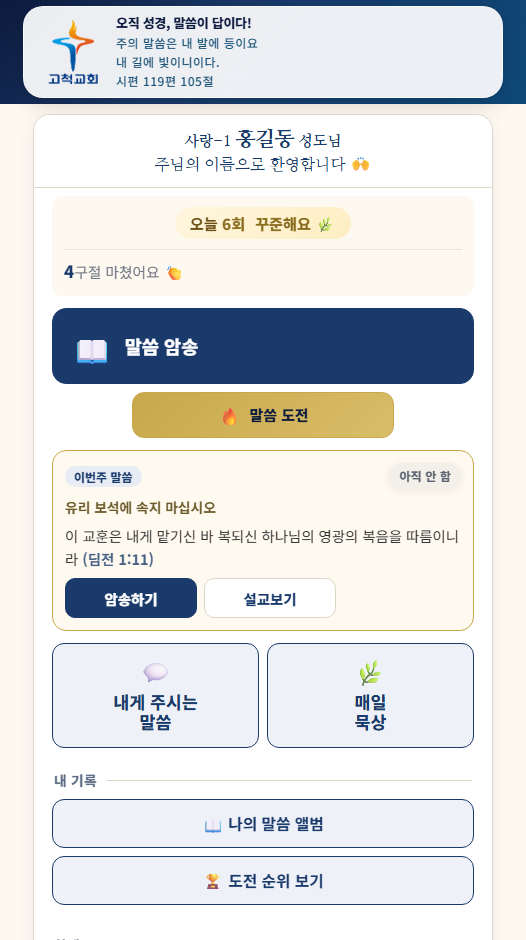
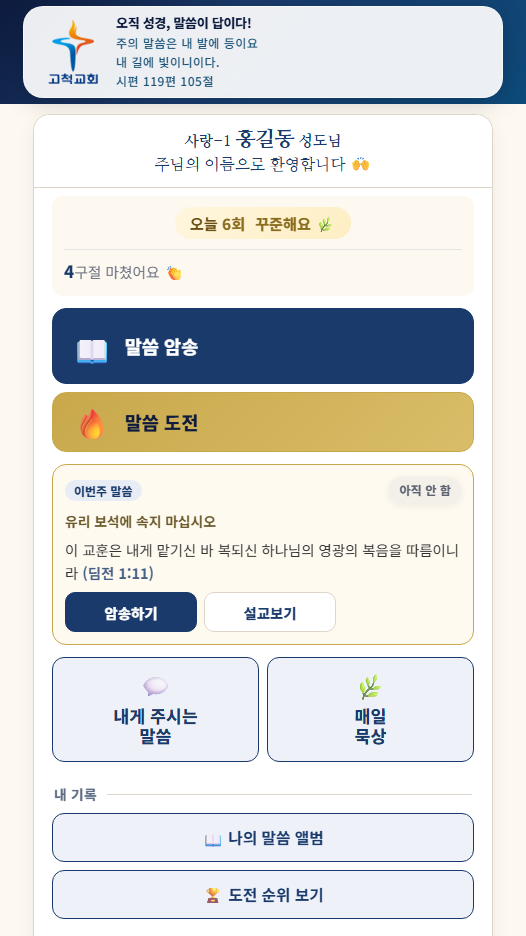
fix(첫 화면): 「말씀 도전」을 「말씀 암송」과 같은 짝으로 — 폭·정렬·그림·글 크기 맞춤, 높이·색으로만 가름 — v3.587
친구 — 「단추가 같아 보이지 않는다」. 62% · 가운데는 9/02 「오늘 할 일 하나」 시절의 것이고
10/11 부터 두 단추가 늘 같은 자리라 까닭이 없어졌다. 옛 62% 규칙과 그 주석은 걷었다.
그림 칸은 너비를 박지 않고 글자 크기만 같게(기기마다 그림 글자 폭이 달라 글 시작이 어긋난다).
guide/shots/home.png 다시 찍음 · docs/notes/home-screen.md · design-refresh.md 에 적음.

diff --git a/style.css b/style.css
@@ -1574,7 +1574,8 @@ body.native-app-hide-ref .word-input { scroll-margin-top: 90px; }
 
 /* ── 오늘 할 일 (2026-09-02) ────────────────────────────────────
    상태를 보고 하나만 크게. 아래 sub-actions 는 그 나머지라 한 단계 작다.
-   ⚠ 이 둘의 크기 차이가 곧 「먼저 이걸 누르세요」다 — 비슷하게 만들면 뜻이 없어진다. */
+   ⚠ 이 둘의 크기 차이가 곧 「먼저 이걸 누르세요」다 — 비슷하게 만들면 뜻이 없어진다.
+   (2026-10-12 — 폭 · 정렬 · 그림 · 글 크기는 맞추고 높이와 색으로만 가른다. 아래 「.sub-actions.one」 덩이) */
 .todo-go {
   display: flex; align-items: center; gap: 12px;
   width: 100%; margin: 0 0 8px; padding: 16px 18px;
@@ -4187,10 +4188,18 @@ body.ab-playing .verse-grid { padding-bottom: 200px; }
 }
 .summary-actions.sub-actions .act-ic { font-size: 1.1rem; margin-bottom: 0; }
 .summary-actions.sub-actions .act-tx { font-size: .93rem; }
-/* ⚠ 하나뿐이면 flex:1 이 전체 폭을 먹어 「오늘 할 일」만큼 커 보인다 —
-   크기 차이가 곧 「먼저 이걸 누르세요」인데 그 뜻이 사라진다. 폭을 줄여 둔다. */
-.summary-actions.sub-actions.one { justify-content: center; }
-.summary-actions.sub-actions.one .summary-go { flex: 0 1 62%; min-height: 46px; }
+/* 하나뿐일 때(「말씀 도전」) — 위 「말씀 암송」(.todo-go)과 같은 짝으로(2026-10-12 친구 「단추가 같아 보이지 않는다」).
+   폭 · 왼쪽 정렬 · 그림 크기 · 글 시작 자리 · 글 크기 · 모서리를 위 단추와 같게 두고, 높이(76 vs 60)와 색(남색 vs 금색)으로만 가른다.
+   ⚠ 9/02 에는 폭을 62% 로 줄여 가운데 두었다 — 큰 단추가 상황 따라 바뀌던 「오늘 할 일 하나」 시절에 「먼저 이걸」을 크기로 말하려던 것.
+      10/11 부터 두 단추가 늘 같은 자리 · 같은 이름이라 그 까닭이 없어졌고, 폭과 정렬이 다르니 다른 종류의 단추로 보였다.
+   ⚠ 그림 칸에 너비를 박지 말고 글자 크기만 위 단추와 같게(1.9rem) — 그림 글자 폭은 기기 글꼴마다 다르다(윈도 크롬 📖 ≈ 41px).
+      같은 글꼴의 그림 글자는 폭이 같아서, 크기만 맞추면 어느 기기에서나 「말씀」 두 글자가 위아래로 맞는다. */
+.summary-actions.sub-actions.one .summary-go {
+  flex: 1 1 100%; min-height: 60px; padding: 10px 18px; gap: 12px;
+  justify-content: flex-start; text-align: left; border-radius: 14px;
+}
+.summary-actions.sub-actions.one .act-ic { font-size: 1.9rem; flex: none; }
+.summary-actions.sub-actions.one .act-tx { font-size: 1.16rem; line-height: 1.2; }
 
 /* ── 사용자 정보 한 상자 (2026-09-02) ─────────────────────────────
    「오늘 몇 회」와 「전체 진행」은 둘 다 내 상태다 — 상자 둘로 나눠 두면

diff --git a/index.html b/index.html
@@ -65,7 +65,7 @@
   <link rel="preconnect" href="https://fonts.gstatic.com" crossorigin />
   <link href="https://fonts.googleapis.com/css2?family=Gowun+Batang:wght@400;700&family=Lora:wght@400;600;700&family=Nanum+Myeongjo:wght@400;700;800&family=Noto+Sans+KR:wght@400;500;700;800&display=swap" rel="stylesheet" media="print" onload="this.media='all'" />
   <noscript><link href="https://fonts.googleapis.com/css2?family=Gowun+Batang:wght@400;700&family=Lora:wght@400;600;700&family=Nanum+Myeongjo:wght@400;700;800&family=Noto+Sans+KR:wght@400;500;700;800&display=swap" rel="stylesheet" /></noscript>
-  <link rel="stylesheet" href="style.css?v=20261012n" />
+  <link rel="stylesheet" href="style.css?v=20261012o" />
 </head>
 <body>
   <!-- 앱 시작 스플래시 화면 -->
@@ -74,7 +74,7 @@
       <img id="splash-logo" src="img/logo-gocheok.png" alt="고척교회" />
       <div class="splash-title">오직 성경, 말씀이 답이다!</div>
       <div class="splash-sub">주의 말씀은 내 발에 등이요<br>내 길에 빛이니이다</div>
-      <div class="splash-ver">v3.586</div>
+      <div class="splash-ver">v3.587</div>
       <img class="splash-denom" src="logo3.png?v=20260702y" alt="대한예수교장로회총회" onerror="this.style.display='none'" />
     </div>
   </div>
@@ -107,11 +107,11 @@
     <p style="text-align:center;padding:40px">불러오는 중...</p>
   </main>
 
-  <script src="js/config.js?v=20261012n"></script>
-  <script src="js/api.js?v=20261012n"></script>
-  <script src="js/push.js?v=20261012n"></script>
-  <script src="js/psalm.js?v=20261012n"></script>
-  <script src="js/events.js?v=20261012n"></script>
-  <script src="app.js?v=20261012n"></script>
+  <script src="js/config.js?v=20261012o"></script>
+  <script src="js/api.js?v=20261012o"></script>
+  <script src="js/push.js?v=20261012o"></script>
+  <script src="js/psalm.js?v=20261012o"></script>
+  <script src="js/events.js?v=20261012o"></script>
+  <script src="app.js?v=20261012o"></script>
 </body>
 </html>

diff --git a/admin.html b/admin.html
@@ -72,7 +72,7 @@
   // 관리 도구 목록 — 앞으로 여기에 한 줄씩 추가하면 됩니다
   const TOOLS = [
     // 성도 정보 관리는 교회 어드민(admin.onlybible.kr 「👤 성도 계정」)으로 옮겼다(2026-10-09) — 여기서 걷었다.
-    { ic:"📖", title:"성경암송 관리", desc:"통계 · 알림발송 · 주간리포트 · 게시판", href:"admin-stats.html?v=20261012n" },
+    { ic:"📖", title:"성경암송 관리", desc:"통계 · 알림발송 · 주간리포트 · 게시판", href:"admin-stats.html?v=20261012o" },
     { ic:"🎉", title:"이벤트 관리", desc:"회차 만들기 · 신청 명단 · 인쇄", href:"admin-event.html" },
     { ic:"🎵", title:"찬양 아카이브 관리", desc:"곡 등록 · 콤보순서 · 조회수 · 사용현황", href:"admin-praise.html" },
     { ic:"⛪", title:"설교·찬양 관리", desc:"설교 올리기(두 단계) · 설교 목록 · 매일 묵상 · 담당자 — 담당자도 이 주소로", href:"admin-sermon.html" },

diff --git a/app.js b/app.js
@@ -6,7 +6,7 @@
 
 // 이 파일의 빌드 번호 — index.html의 app.js?v= 와 반드시 같아야 한다.
 // (tools/bump.py가 둘을 함께 올린다)
-const APP_BUILD = "20261012n";
+const APP_BUILD = "20261012o";
 
 // 배포 직후 CDN이 아직 옛 app.js를 내보내면, 브라우저는 그 옛 내용을 '새 주소'
 // 아래 캐시해 버린다. 주소가 다시 바뀌기 전까지(최대 10분) 옛 화면이 남는 이유다.

diff --git a/docs/notes/home-screen.md b/docs/notes/home-screen.md
@@ -48,6 +48,10 @@
   같은 날 **진행 줄에서도 전체 수 · % · 막대를 뺐다(친구 ②안)** — 「이제 시작이에요」 / 「N구절 마쳤어요 👏」 / 「N구절 모두 마쳤어요 🎉」 세 가지뿐이다. 마친 수만 센다(「2구절 마쳤어요 / 전체 41 · 5%」는 첫 구절 뒤에도 「아직 한참」으로 읽혔다). 전체 중 어디쯤인지는 말씀 목록·앨범에서 본다. 도움말 「🏷 내 기록 & 진행 표시」 글도 「마친 구절 수와 %」 → 「마친 구절 수」. 쓰이지 않게 된 `.sb-pct`·`.sb-track`·`.sb-of` 규칙은 걷었다.
   ⚠ 진행 줄은 `line-height` 를 고정했다 — 숫자가 없는 「이제 시작이에요」와 굵은 숫자가 있는 줄의 높이가 5px 달라, 첫 구절을 마치는 순간 아래 단추들이 내려갔다.
   어두운 모드에서 인사의 소속·이름·「성도님」과 진행 줄의 숫자가 남색 그대로라 안 보이던 것도 고쳤다(`--navy` 는 `.dark` 에서 안 바뀐다 — 자식 규칙이 색을 직접 가지면 부모를 밝혀도 안 닿는다).
+- **2026-10-12 「🔥 말씀 도전」을 「📖 말씀 암송」과 같은 짝으로(친구 — 「단추가 같아 보이지 않는다」).** 폭 62% · 가운데 · 작은 그림이던 것을 위 단추와 같은 폭 · 왼쪽 정렬 · 같은 그림 크기(1.9rem) · 같은 글 시작 자리 · 같은 글 크기(1.16rem) · 같은 모서리(14px)로. 둘은 **높이(76 · 60)와 색(남색 · 금색)으로만** 가른다. CSS 는 `style.css` 의 `.summary-actions.sub-actions.one` 덩이(옛 62% 규칙과 그 ⚠ 주석은 걷었다).
+  62% 는 9/02 「오늘 할 일 하나」 시절의 것이다 — 큰 단추가 상황 따라 암송·도전·복습으로 바뀌던 때, 「먼저 이걸」을 크기로 말하려 했다. 10/11 부터 두 단추가 늘 같은 자리 · 같은 이름이라 그 까닭이 없어졌고, 폭과 정렬이 달라 다른 종류의 단추로 보였다.
+  ⚠ **그림 칸에 너비를 박지 말 것** — 그림 글자 폭은 기기 글꼴마다 다르다(윈도 크롬 📖 ≈ 41px · 1.9rem 칸으로 박았더니 글 시작이 12px 어긋났다). 같은 글꼴의 그림 글자는 폭이 같아서 **글자 크기만 같게** 두면 어느 기기에서나 「말씀」 두 글자가 위아래로 맞는다. `.todo-go .todo-ic` 크기를 바꾸면 이쪽도 함께.
+  확인: 폭 320·390·430 × 밝은·어두운 × B안 미리보기 — 두 단추의 왼쪽·폭·글 시작이 같다 · 넘침 0. `guide/shots/home.png` 도 다시 찍었다(② 글 「맨 큰 남색 단추 … 바로 밑 금색 단추」는 그대로 참이다).
 - **2026-10-12 첫 실행을 가볍게 — 🎓 교육·🙋 봉사 당번 화면 코드는 필요할 때 받는다**(`index.html` 에서 `js/edu.js`·`js/duty.js` 를 뺐다 · 140KB/gzip 44KB · 단추가 보이면 한가할 때 미리 · 알림 주소는 첫 그리기 앞에서 기다린다). 단추를 숨기는 문 판단은 `app.js` 에 그대로다.
   ⚠ 「교회 생활」 묶음에 단추를 더하거나 두 파일의 전역을 `app.js` 에서 새로 부르기 전에 `docs/notes/lazy-load.md` — 첫 화면이 동기로 부르는 것을 지연 파일에 두면 그 자리가 조용히 빈다.
 

diff --git a/docs/notes/design-refresh.md b/docs/notes/design-refresh.md
@@ -19,7 +19,7 @@
 
 ## 시안 전체를 고르기 전에 먼저 앱에 넣은 것 (2026-10-12 친구 결정 · 새로 오신 분 부담 덜기)
 차례(4~7단계)를 건너뛰고 바로 운영에 넣었다 — 새로 오신 분이 힘들어하신다는 것이 까닭이다. **색은 지금 앱 색 그대로**(친구가 「지금 앱 색 유지」를 골랐다).
-- **첫 화면** — 큰 단추 아래 「아직 N구절 남았어요」를 뺐다 · 단추 이름 「말씀 암송하기」 → 「말씀 암송」 · 진행 줄에서 전체 수·%·막대를 뺐다(마친 수만). 상세 `docs/notes/home-screen.md` 끝.
+- **첫 화면** — 큰 단추 아래 「아직 N구절 남았어요」를 뺐다 · 단추 이름 「말씀 암송하기」 → 「말씀 암송」 · 진행 줄에서 전체 수·%·막대를 뺐다(마친 수만) · 「🔥 말씀 도전」을 「📖 말씀 암송」과 같은 폭·정렬·그림·글 크기로(높이와 색으로만 가름 — 「같은 일은 같은 모양」 원칙의 첫 걸음). 상세 `docs/notes/home-screen.md` 끝.
 - **말씀 목록 = 시안 B 구조** — 카드에 풀어 쓴 구절 이름(`verseRefFull` — 「살전 5:16-18」 → 「데살로니가전서 5장 16-18절」)과 **본문 두 줄**(`verseText`, 명조 · 말줄임), 그 아래 상태 칩, 🔊 는 오른쪽. CSS 는 `style.css` 끝 「말씀 목록 — 시안 B 구조」 덩이.
   - **거르기 칸 다섯 = 외우는 걸음 사다리**(친구 · 같은 날 고침): 전체 · **진행**(1·2단계) · **마침**(3단계 · 마음에 두지 않음) · **마음에 둠** · **안 함**. **한 구절은 한 칸에만** 든다(`vlKind` — 마음에 둔 구절은 「마침」에서 뺀다 · 예전 첫 화면 네 칸과 같은 나눔). 「마침」이 비었는데 마음에 둔 구절이 있으면 「마친 말씀은 모두 「마음에 둠」에 있어요」 — 「아직 없음」과 뭉개지 않는다.
   - **마음에 둔 구절은 어느 칸에서나 본문 대신 첫 낱말 힌트**(담당자가 넣는 `hintText` · 「주의 OOO O」 — 다 외운 말씀이니 떠올려 보게). 힌트가 비었거나 영어 모드면(힌트는 한국어) **담당자 꼴 그대로** 본문에서 만든다(`vlAutoHint` — 첫 낱말 + 다음 두 낱말을 글자 수만큼 O · 운영 힌트 39개 중 33개가 이 규칙과 글자까지 같았다). ⚠ 처음엔 앨범 「첫 글자만」(`firstCharHint`)으로 만들어 본문 전체가 「지○○ 그 행○ 일○ …」로 길게 나왔다(친구 제보 — 힌트가 빈 39·41번). 처음엔 「본문 전체」로 힌트를 아예 안 보였다가 이렇게 되살렸다 — 담당자 힌트 입력은 계속 쓰인다.
